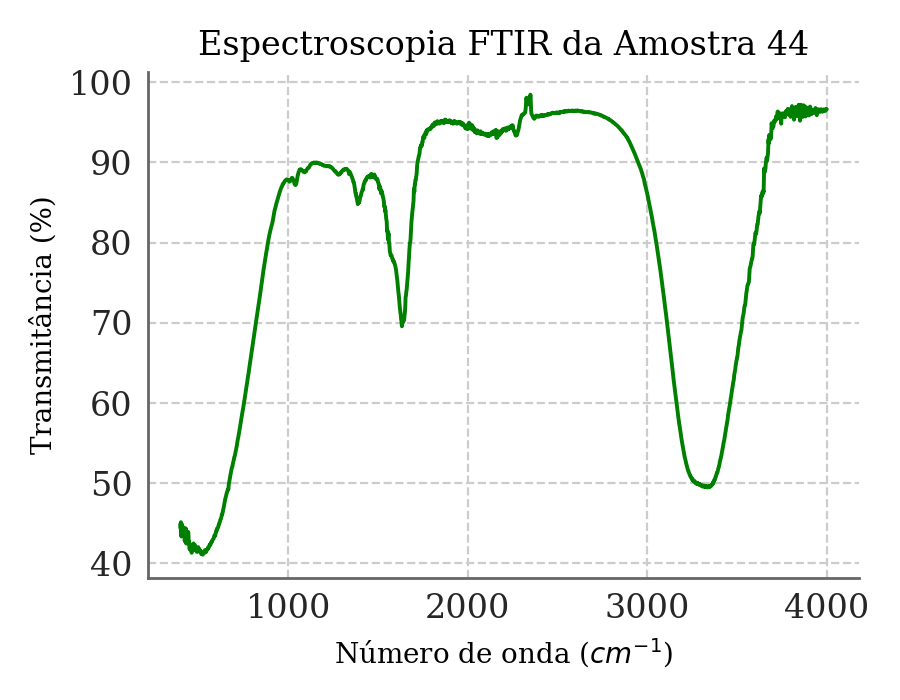
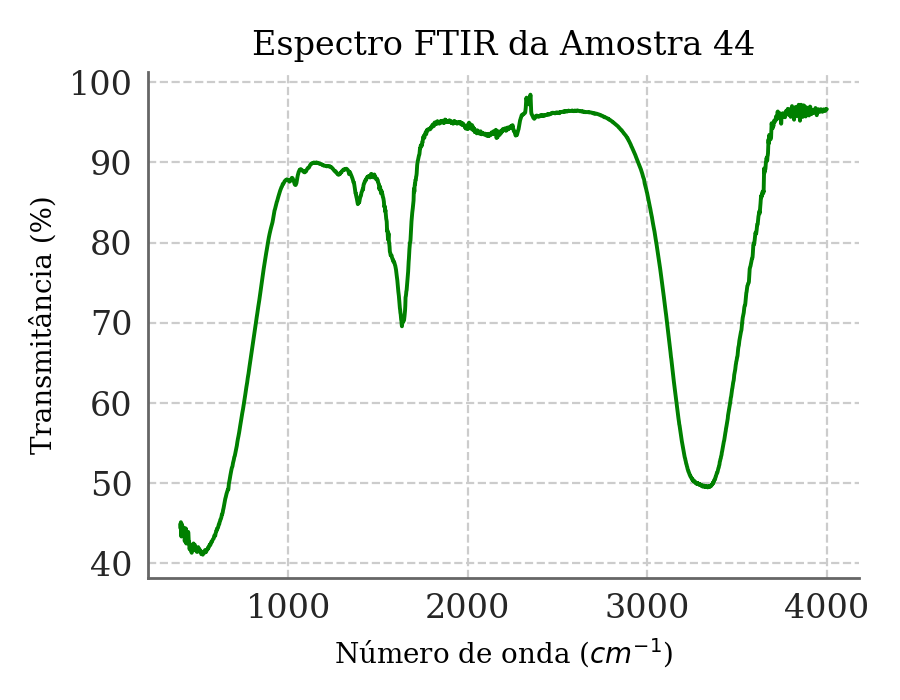
correcao FTIR e readme

Changed region(s): [[0.2178, 0.03, 0.9022, 0.09]]

diff --git a/README.md b/README.md
@@ -1,2 +1,6 @@
 # dados_lab
 Repositório para os dados de Laboratório Avançado II
+![image](https://github.com/Karl-Marcos/dados_lab/blob/main/graficos/AM_44_UVVIS_BIM.png)
+![image](https://github.com/Karl-Marcos/dados_lab/blob/main/graficos/AM_62_UVVIS_BIM.png)
+![image](https://github.com/Karl-Marcos/dados_lab/blob/main/graficos/AM_44_FTIR_BIM.png)
+![image](https://github.com/Karl-Marcos/dados_lab/blob/main/graficos/AM_62_FTIR_BIM.png)
